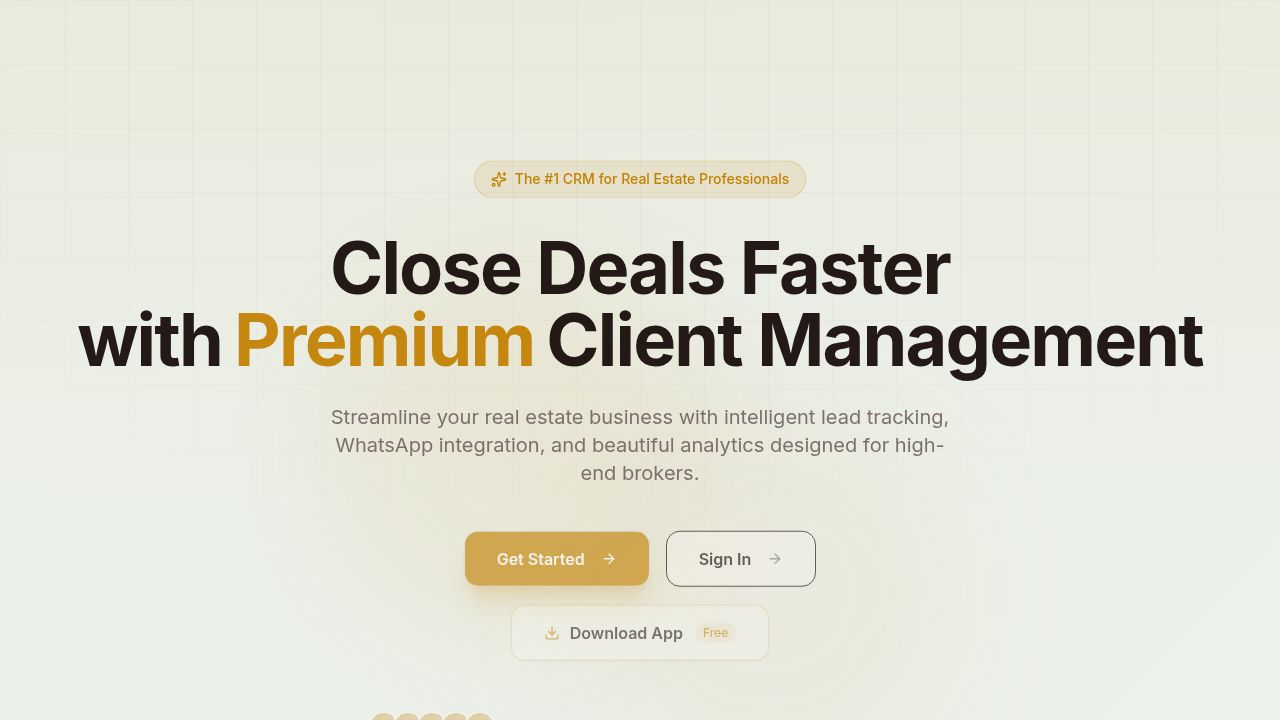
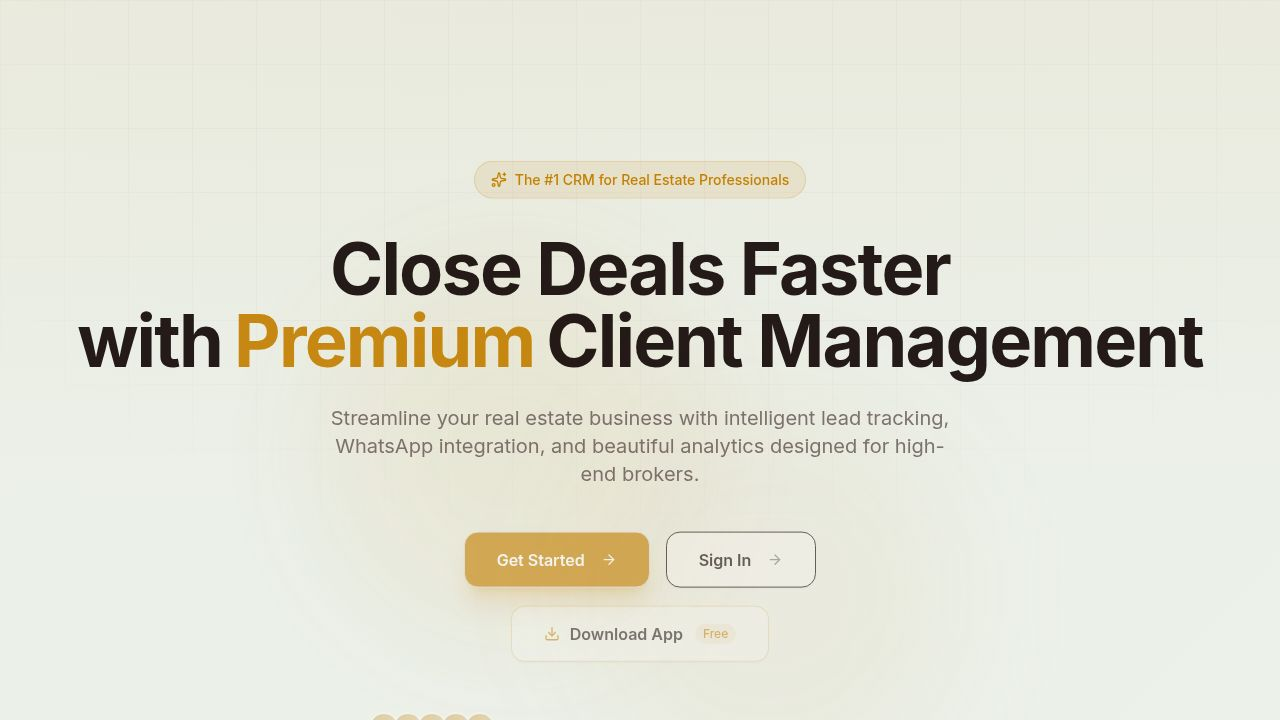
Improve settings loading reliability and error handling
Update API fetching logic to use fresh tokens, implement retry states, and refine error display for a more robust user experience.

Replit-Commit-Author: Agent
Replit-Commit-Session-Id: 1de3fa70-6583-4c6c-967f-280cc694e8ae
Replit-Commit-Checkpoint-Type: full_checkpoint
Replit-Commit-Event-Id: 279a126b-9987-428d-957f-8ed943cb775b
Replit-Commit-Screenshot-Url: https://storage.googleapis.com/screenshot-production-us-central1/926b515e-e56c-422e-9e6d-1c31eeab7869/1de3fa70-6583-4c6c-967f-280cc694e8ae/by1Os5B
Replit-Helium-Checkpoint-Created: true

diff --git a/artifacts/luxestate/src/lib/settings-api.ts b/artifacts/luxestate/src/lib/settings-api.ts
@@ -1,6 +1,6 @@
-import { useQuery, useMutation, useQueryClient } from "@tanstack/react-query"
+import { useQuery, useMutation, useQueryClient, keepPreviousData } from "@tanstack/react-query"
 import { useAuth } from "./auth-context"
-import { useCallback } from "react"
+import { supabase } from "./supabase"
 
 const API = import.meta.env.BASE_URL.replace(/\/$/, "") + "/api"
 
@@ -63,43 +63,54 @@ export type SettingsUpdate = {
   preferredLanguage?: string
 }
 
-function useAuthHeaders() {
-  const { session } = useAuth()
-  return {
-    "Content-Type": "application/json",
-    ...(session?.access_token ? { Authorization: `Bearer ${session.access_token}` } : {}),
+// Always read the token fresh from Supabase at call time — never from a
+// React state closure that may have been captured before a token refresh.
+async function freshHeaders(): Promise<Record<string, string>> {
+  const { data: { session } } = await supabase.auth.getSession()
+  const h: Record<string, string> = { "Content-Type": "application/json" }
+  if (session?.access_token) h["Authorization"] = `Bearer ${session.access_token}`
+  return h
+}
+
+async function fetchSettings(): Promise<SettingsResponse> {
+  let res = await fetch(`${API}/settings`, { headers: await freshHeaders() })
+
+  // 401 → token just expired, refresh once and retry
+  if (res.status === 401) {
+    await supabase.auth.refreshSession()
+    res = await fetch(`${API}/settings`, { headers: await freshHeaders() })
   }
+
+  if (!res.ok) {
+    const body = await res.json().catch(() => ({})) as any
+    throw new Error(body?.error ?? `Settings request failed (HTTP ${res.status})`)
+  }
+  return res.json()
 }
 
 export function useSettings() {
-  const headers = useAuthHeaders()
   const { session } = useAuth()
 
   return useQuery<SettingsResponse>({
     queryKey: ["settings"],
-    queryFn: async () => {
-      const res = await fetch(`${API}/settings`, { headers })
-      if (!res.ok) throw new Error("Failed to fetch settings")
-      return res.json()
-    },
-    staleTime: 1000 * 60,
+    queryFn: fetchSettings,
     enabled: !!session,
+    staleTime: 1000 * 60 * 5,           // 5 min — settings rarely change
+    gcTime: 1000 * 60 * 15,             // Keep cache 15 min after unmount
+    retry: 2,
+    retryDelay: (attempt) => Math.min(1000 * 2 ** attempt, 8000),
+    placeholderData: keepPreviousData,  // Keep old data visible during re-fetch
   })
 }
 
 export function useUpdateSettings() {
   const qc = useQueryClient()
-  const { session } = useAuth()
-  const headers = {
-    "Content-Type": "application/json",
-    ...(session?.access_token ? { Authorization: `Bearer ${session.access_token}` } : {}),
-  }
 
   return useMutation({
     mutationFn: async (update: SettingsUpdate) => {
       const res = await fetch(`${API}/settings`, {
         method: "PUT",
-        headers,
+        headers: await freshHeaders(),
         body: JSON.stringify(update),
       })
       if (!res.ok) {
@@ -115,18 +126,12 @@ export function useUpdateSettings() {
 }
 
 export function useUploadImage() {
-  const { session } = useAuth()
-  const headers = {
-    "Content-Type": "application/json",
-    ...(session?.access_token ? { Authorization: `Bearer ${session.access_token}` } : {}),
-  }
-
   return useMutation({
     mutationFn: async ({ field, file }: { field: "avatar" | "logo"; file: File }) => {
       const base64 = await fileToBase64(file)
       const res = await fetch(`${API}/settings/upload`, {
         method: "POST",
-        headers,
+        headers: await freshHeaders(),
         body: JSON.stringify({ field, base64, filename: file.name }),
       })
       if (!res.ok) {

diff --git a/artifacts/luxestate/src/pages/dashboard/settings.tsx b/artifacts/luxestate/src/pages/dashboard/settings.tsx
@@ -210,7 +210,9 @@ function parseUserAgent(ua: string): { browser: string; os: string } {
 // ─── Main Page ────────────────────────────────────────────
 
 export default function SettingsPage() {
-  const { data, isLoading, isError, refetch } = useSettings()
+  const { data, isPending, isFetching, isError, refetch } = useSettings()
+  const [retrying, setRetrying] = useState(false)
+  const handleRetry = async () => { setRetrying(true); try { await refetch() } finally { setRetrying(false) } }
   const updateSettings = useUpdateSettings()
   const { theme, setTheme } = useTheme()
   const { session, signOut } = useAuth()
@@ -543,7 +545,8 @@ export default function SettingsPage() {
   const pwStrengthLabel = ["", "Weak", "Fair", "Good", "Strong", "Very strong"][pwStrength] ?? ""
   const pwStrengthColor = pwStrength <= 1 ? "bg-red-500" : pwStrength <= 2 ? "bg-amber-500" : pwStrength <= 3 ? "bg-yellow-400" : "bg-emerald-500"
 
-  if (isLoading) {
+  // First-ever load — no data at all yet
+  if (isPending) {
     return (
       <div className="space-y-6">
         <DashboardPageHeader title="Settings" description="Manage your profile, preferences, and integrations." />
@@ -554,15 +557,28 @@ export default function SettingsPage() {
     )
   }
 
-  if (isError) {
+  // Hard error — first load failed with no data to fall back on
+  if (isError && !data) {
     return (
       <div className="space-y-6">
         <DashboardPageHeader title="Settings" description="Manage your profile, preferences, and integrations." />
-        <div className="rounded-xl border border-red-500/20 bg-red-500/10 px-4 py-3 text-sm text-red-500 flex items-center gap-3">
-          <AlertCircle className="h-4 w-4 shrink-0" />
-          Failed to load settings.
-          <button onClick={() => refetch()} className="ml-auto underline font-medium flex items-center gap-1">
-            <RefreshCw className="h-3 w-3" /> Retry
+        <div className="flex flex-col items-center justify-center gap-4 py-16">
+          <div className="flex h-14 w-14 items-center justify-center rounded-2xl bg-destructive/10">
+            <AlertCircle className="h-7 w-7 text-destructive" />
+          </div>
+          <div className="text-center">
+            <p className="text-base font-semibold">Failed to load settings</p>
+            <p className="mt-1 text-sm text-muted-foreground">
+              The server may be starting up. Your account data is safe — try again in a moment.
+            </p>
+          </div>
+          <button
+            onClick={handleRetry}
+            disabled={retrying}
+            className="mt-1 flex items-center gap-1.5 rounded-lg border border-border/60 bg-secondary/40 px-4 py-2 text-sm font-medium hover:bg-secondary/60 disabled:opacity-50"
+          >
+            <RefreshCw className={cn("h-3.5 w-3.5", retrying && "animate-spin")} />
+            {retrying ? "Retrying…" : "Try Again"}
           </button>
         </div>
       </div>
@@ -574,7 +590,32 @@ export default function SettingsPage() {
       <DashboardPageHeader
         title="Settings"
         description="Manage your profile, preferences, and integrations."
+        actions={
+          isFetching ? (
+            <span className="flex items-center gap-1.5 text-xs text-muted-foreground">
+              <Loader2 className="h-3.5 w-3.5 animate-spin" /> Syncing…
+            </span>
+          ) : null
+        }
       />
+
+      {/* Soft error — re-fetch failed but stale data is still shown */}
+      {isError && data && (
+        <div className="flex items-center gap-3 rounded-xl border border-amber-500/30 bg-amber-500/8 px-4 py-3 text-sm">
+          <AlertCircle className="h-4 w-4 shrink-0 text-amber-500" />
+          <span className="text-amber-700 dark:text-amber-400">
+            Couldn't refresh your settings — showing last saved data.
+          </span>
+          <button
+            onClick={handleRetry}
+            disabled={retrying}
+            className="ml-auto flex items-center gap-1 text-xs font-medium text-amber-600 underline underline-offset-2 hover:text-amber-700 disabled:opacity-50 dark:text-amber-400"
+          >
+            <RefreshCw className={cn("h-3 w-3", retrying && "animate-spin")} />
+            {retrying ? "Retrying…" : "Retry"}
+          </button>
+        </div>
+      )}
 
       <div className="flex flex-col gap-6 md:flex-row md:items-start">
         {/* ── Sidebar ─────────────────────────────────────── */}